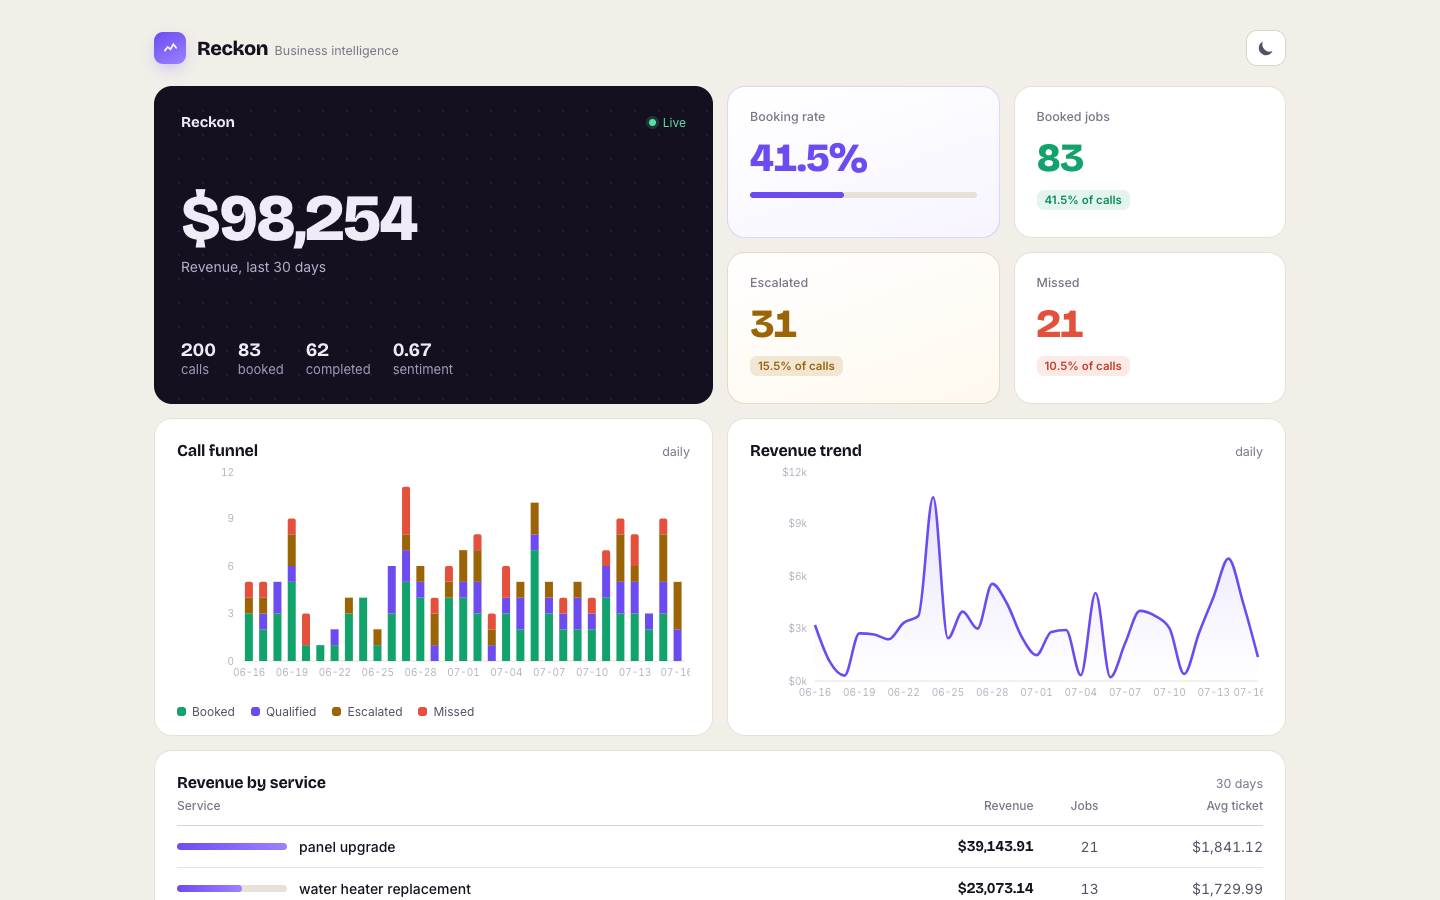
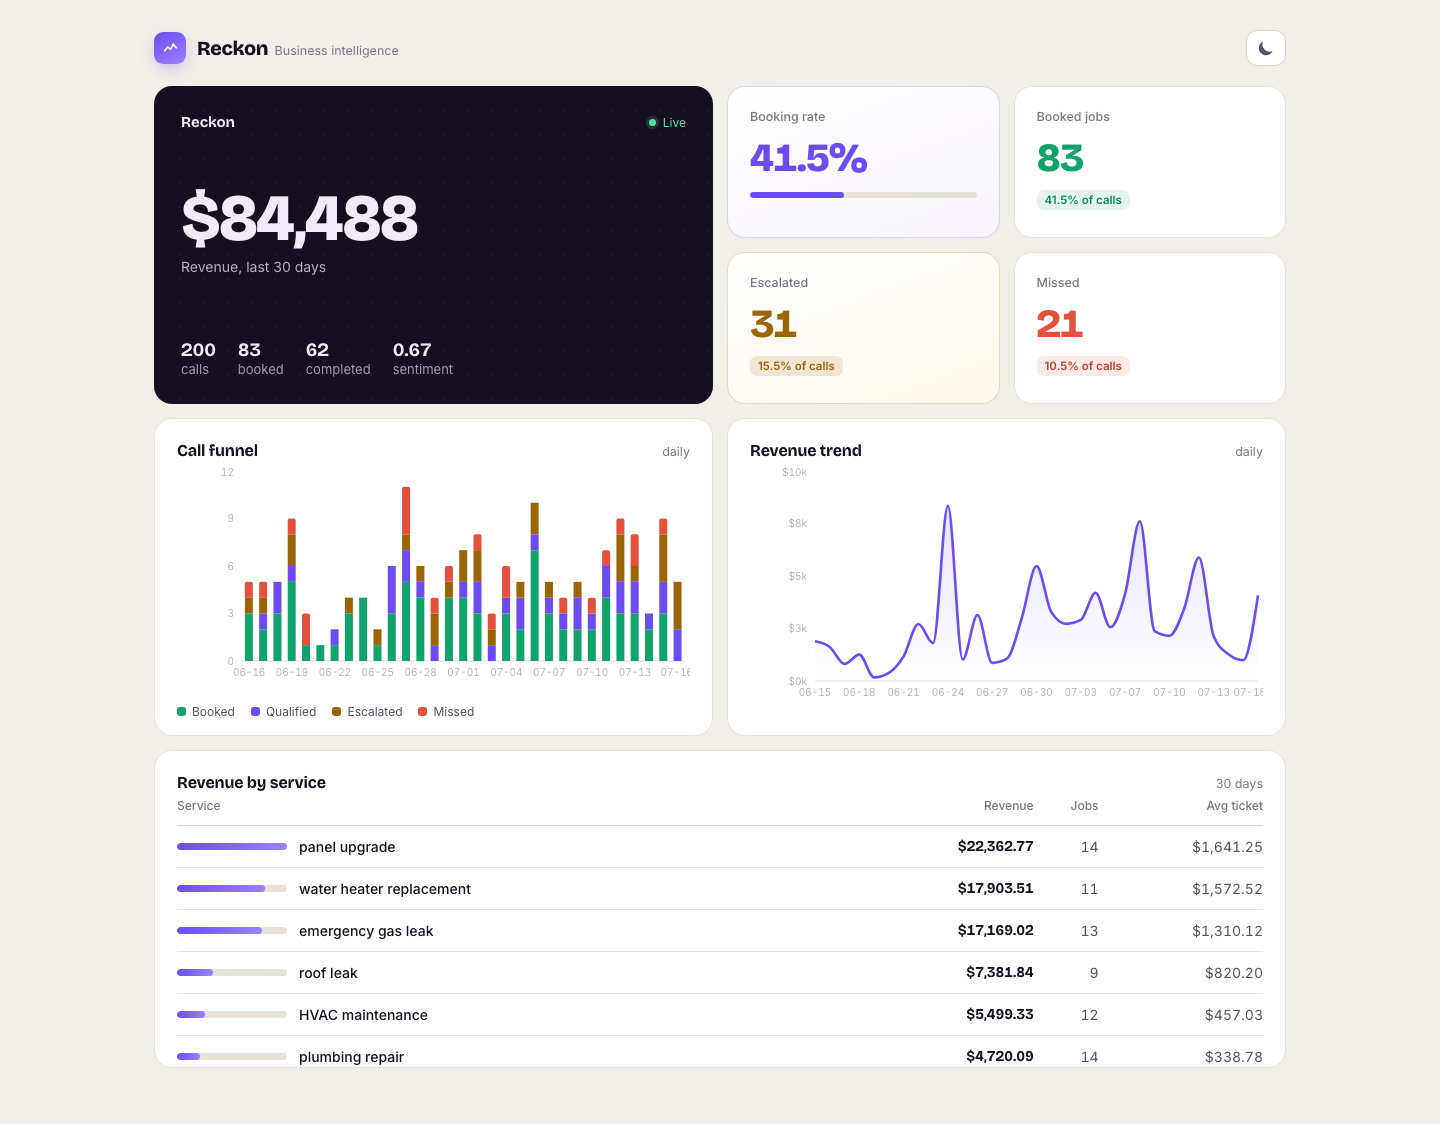
docs: reconcile README transcripts and dashboard screenshots to seeded data
Re-ran the pipeline with the now-deterministic Stripe generator, queried
every number via direct SQL, and updated the copilot transcript figures
to match. Regenerated both dashboard screenshots (light and dark) so
images, transcripts, and a fresh docker compose up all tell one story.

Key numbers (verified via SQL):
- Calls: 200 total, 83 booked, 41.5% rate (unchanged)
- Revenue: $84,487.82 gross, $67,817.49 net, 113 txns
- Top service: Panel Upgrade at $22,362.77
- June 16-July 16 window: $82,597.61 gross, 112 txns
- July 6-12 window: $28,162.73 gross, 34 txns

***REMOVED***

diff --git a/README.md b/README.md
@@ -358,12 +358,12 @@ Question: Which service makes the most money?
 
 - - - - - - - - - - - - - - - - - - - - - - - - - - - - - -
 Answer:
-Panel Upgrade is your top earner at $28,918.09 gross ($22,724.05 net)
-across 17 transactions. Water Heater Replacement has the highest average
-ticket at $1,801.68 per job. Emergency Gas Leak ranks third at $10,600.01.
+Panel Upgrade is your top earner at $22,362.77 gross ($17,315.28 net)
+across 14 transactions. Water Heater Replacement has the highest average
+ticket at $1,572.52 per job. Emergency Gas Leak ranks third at $17,169.02.
 ```
 
-Direct query confirmation: `SELECT service_description, sum(revenue_dollars) FROM marts.mart_revenue GROUP BY 1 ORDER BY 2 DESC LIMIT 1` -> Panel Upgrade, $28,918.09.
+Direct query confirmation: `SELECT service_description, sum(revenue_dollars) FROM marts.mart_revenue GROUP BY 1 ORDER BY 2 DESC LIMIT 1` -> Panel Upgrade, $22,362.77.
 
 ---
 
@@ -392,12 +392,12 @@ Question: How much revenue in the last 30 days?
 
 - - - - - - - - - - - - - - - - - - - - - - - - - - - - - -
 Answer:
-For June 16 - July 16, 2026: gross revenue $92,296.73, net revenue
-$68,780.39 across 121 transactions (avg ticket $736.41). Refunds totalled
-$23,516.34 across 30 events.
+For June 16 - July 16, 2026: gross revenue $82,597.61, net revenue
+$65,927.28 across 112 transactions (avg ticket $689.84). Refunds totalled
+$16,670.33 across 27 events.
 ```
 
-Direct query confirmation: `SELECT sum(revenue_dollars), sum(net_revenue_dollars), sum(transaction_count) FROM marts.mart_revenue WHERE payment_date >= '2026-06-16'` -> $92,296.73 gross / $68,780.39 net / 121 txns.
+Direct query confirmation: `SELECT sum(revenue_dollars), sum(net_revenue_dollars), sum(transaction_count) FROM marts.mart_revenue WHERE payment_date >= '2026-06-16'` -> $82,597.61 gross / $65,927.28 net / 112 txns.
 
 ### Stale Data Refusal
 
@@ -424,8 +424,8 @@ Cannot answer: data is stale. aria_calls: stale (50h old, threshold is
 48h). Please run the pipeline before querying.
 ```
 
-After restoring `_loaded_at` to `now()` the same question returns $23,501.67 gross /
-$19,634.33 net / 38 transactions (confirmed: direct query matches exactly).
+After restoring `_loaded_at` to `now()` the same question returns $28,162.73 gross /
+$19,325.53 net / 34 transactions (confirmed: direct query matches exactly).
 
 ### Out-of-Scope Refusal
 